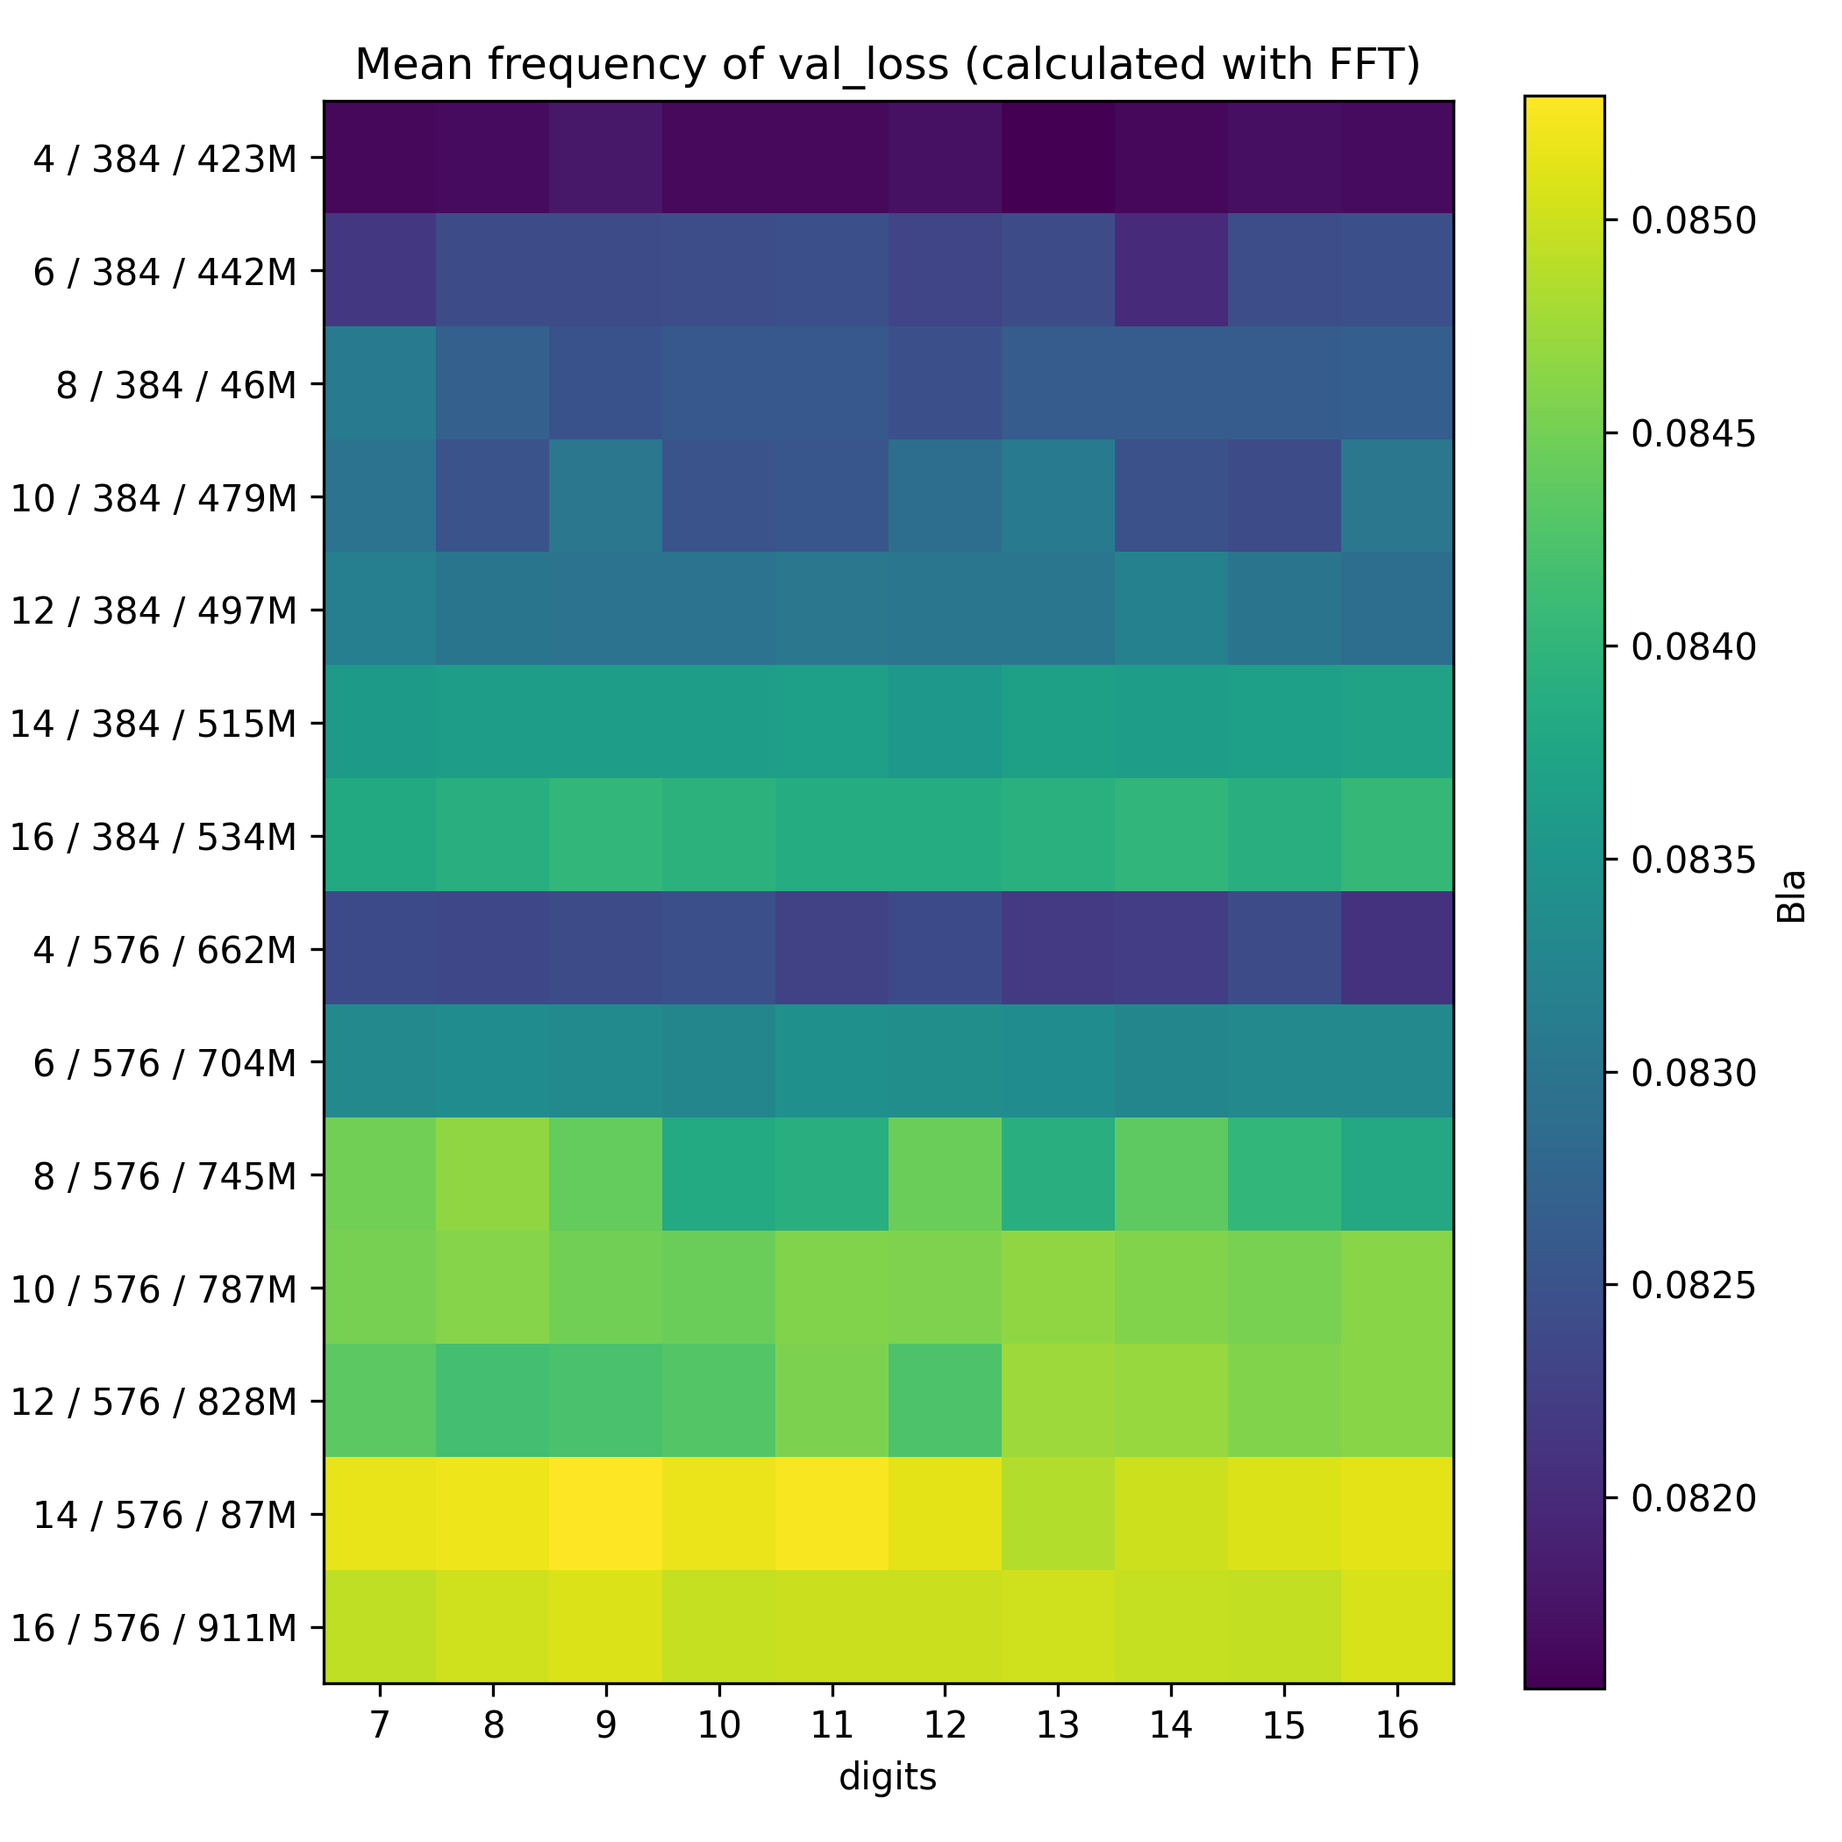
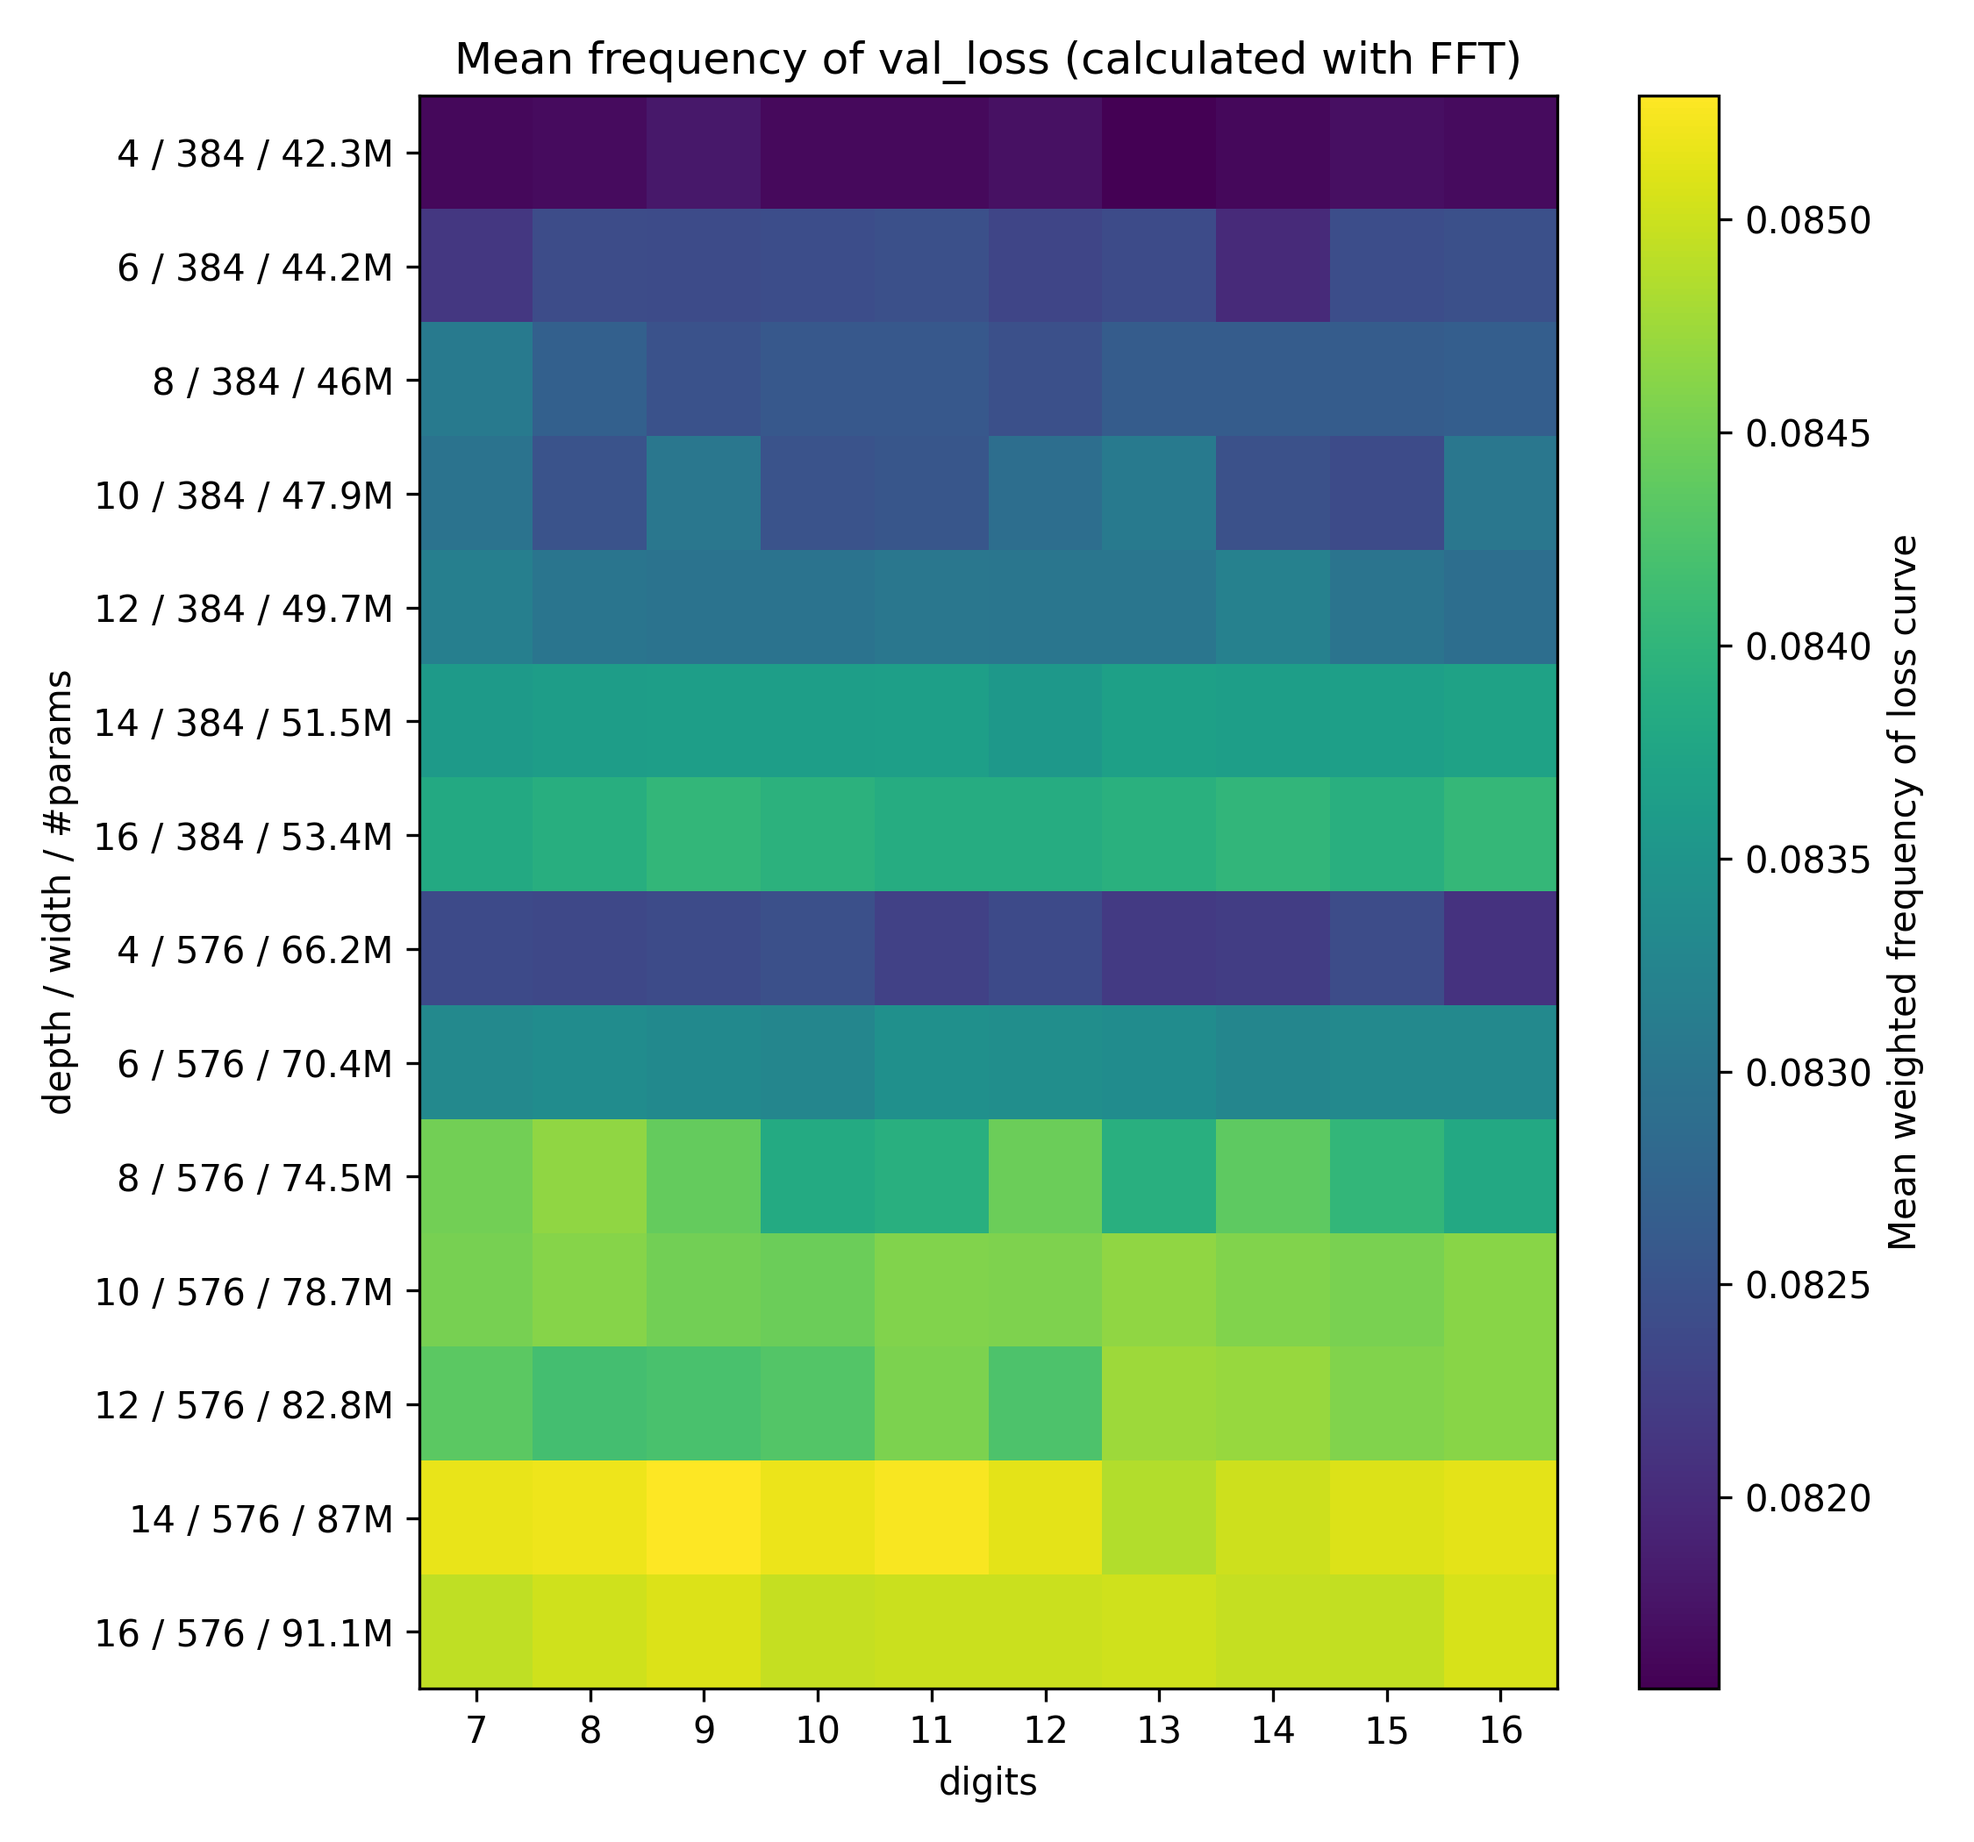
Properly format freq heatmap

diff --git a/plot_results.py b/plot_results.py
@@ -359,6 +359,7 @@ def heatmap_l2_dist_losses_by_size(
         file: str,
         to_plot: Literal["val_loss", "train_loss", "val_accs", "train_accs", "val_pplxs"] = "val_loss",
         min_digits: int = 0,
+        num_heads: int | None = None,
         show: bool = True,
 ) -> None:
     digits = unique_gradient_rounding_digits(file)
@@ -374,6 +375,7 @@ def heatmap_l2_dist_losses_by_size(
                 num_params=num_params,
                 gradient_rounding_digits=digit,
                 to_plot=to_plot,
+                num_heads=num_heads,
                 plot_over="epoch",
             )
             xs2, _, avg_ys2 = load_xs_ys_avg_y(
@@ -381,6 +383,7 @@ def heatmap_l2_dist_losses_by_size(
                 num_params=num_params,
                 gradient_rounding_digits=max_digits,
                 to_plot=to_plot,
+                num_heads=num_heads,
                 plot_over="epoch",
             )
             # Make the two arrays the same length
@@ -434,7 +437,8 @@ def heatmap_l2_dist_losses_by_size(
         plt.savefig(
             f"results/images/l2_dist_{to_plot}"
             f"_{len(param_nums)}_modelsizes_"
-            f"{max_digits}_max_digits_{min_digits}_min_digits.png", 
+            f"{max_digits}_max_digits_{min_digits}_min_digits"
+            f"_{num_heads}_heads.png", 
             dpi=300,
         )
 
@@ -567,7 +571,7 @@ def plot_fourier_transform_of_loss_curves_heatmap(
     fig, ax = plt.subplots()
     cax = ax.matshow(np.array(fft_means), cmap="viridis")
     cbar = fig.colorbar(cax)
-    cbar.set_label("Bla")
+    cbar.set_label("Mean weighted frequency of loss curve")
 
     yticklabels = []
     for i in range(len(param_nums)):
@@ -596,7 +600,7 @@ def plot_fourier_transform_of_loss_curves_heatmap(
 
     # Increase plot-size
     fig = plt.gcf()
-    fig.set_size_inches(7, 7)
+    fig.set_size_inches(7.5, 7)
 
     # Reduce whitespace
     fig.subplots_adjust(left=0.1, right=0.87, top=0.9, bottom=0.1)
@@ -678,12 +682,12 @@ if __name__ == "__main__":
     file_digits_and_scale = "results/results_digits_and_scale.csv"
     
     # plot_performance(
-    #     file=file_digits_and_scale,
+    #     file=file_10_tries,
     #     depth=None,
-    #     width=None,
-    #     gradient_rounding_digits=16,
+    #     width=384,
+    #     gradient_rounding_digits=[8, 16],
     #     num_heads=1,
-    #     from_percentage=0.6,
+    #     from_percentage=0.3,
     #     to_plot="train_loss",
     #     plot_over="token",
     #     show=True,
@@ -694,15 +698,16 @@ if __name__ == "__main__":
     #     file=file_digits_and_scale,
     #     to_plot="val_loss",
     #     min_digits=0,
-    #     show=False,
+    #     num_heads=1,
+    #     show=True,
     # )
-    # plot_fourier_transform_of_loss_curves_heatmap(
-    #     file=file_digits_and_scale,
-    #     to_plot="val_loss",
-    #     plot_over="epoch",
-    #     min_digits=7,
-    #     show=False,
-    # )
+    plot_fourier_transform_of_loss_curves_heatmap(
+        file=file_digits_and_scale,
+        to_plot="val_loss",
+        plot_over="epoch",
+        min_digits=7,
+        show=False,
+    )
     # plot_mean_fourier_freq_over_gradient_rounding_digits(
     #     file=file_digits_and_scale,
     #     to_plot="val_loss",
@@ -710,10 +715,10 @@ if __name__ == "__main__":
     #     min_digits=7,
     #     show=True,
     # )
-    heatmap_l2_dist_to_largest_model(
-        file=file_digits_and_scale,
-        to_plot="val_loss",
-        min_digits=6,
-        show=True,
-        measure="L1",
-    )
+    # heatmap_l2_dist_to_largest_model(
+    #     file=file_digits_and_scale,
+    #     to_plot="val_loss",
+    #     min_digits=6,
+    #     show=True,
+    #     measure="L1",
+    # )
